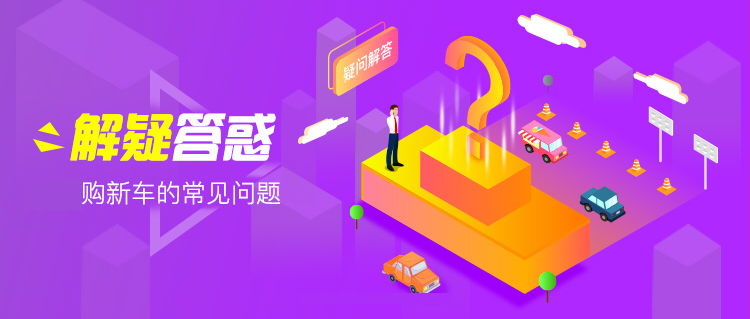
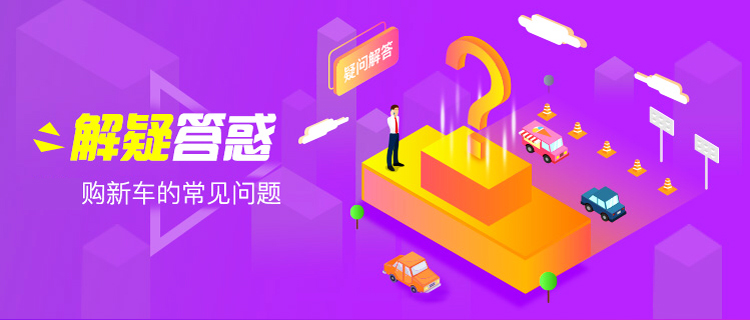
修改首页轮播图

diff --git a/src/pages/home.vue b/src/pages/home.vue
@@ -77,7 +77,7 @@ export default class Home extends Vue {
 
   private images: Array<string> = [
     "/static/images/home/home01.png",
-    "/static/images/home/home01.png"
+    "/static/images/home/home02.png"
   ];
 
   // 控制各个组件显示flag
